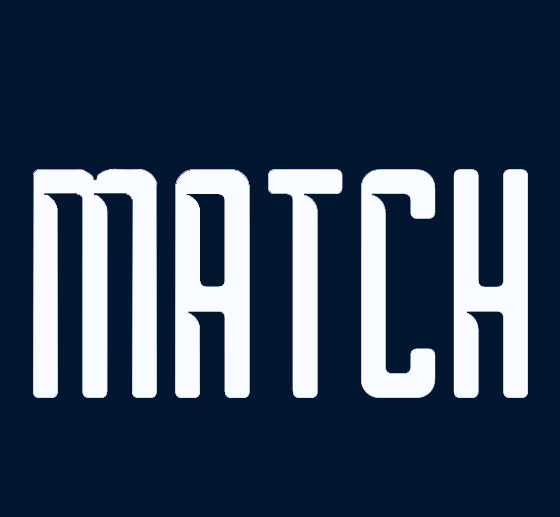
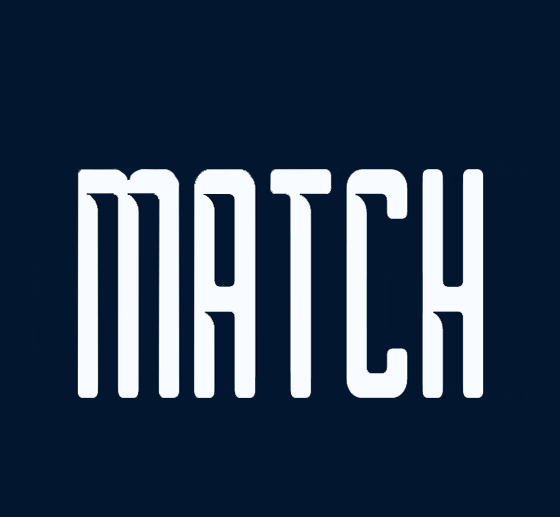
image reproporting

Changed region(s): [[0.0607, 0.3095, 0.4857, 0.7737], [0.5768, 0.3095, 0.9411, 0.7737], [0.5161, 0.3714, 0.5768, 0.7737]]

diff --git a/videograph-master/css/style.css b/videograph-master/css/style.css
@@ -901,14 +901,10 @@ label {
 
 #gsbWeb {
   background-position: center;
-  background-size: 65% 65%;
   background-color: #02172f;
+  background-size: contain;
 }
 
-#gsbWeb:hover,
-#matchApp:hover {
-  background-size: 55% 80%;
-}
 
 
 #gsbApp {
@@ -927,7 +923,7 @@ label {
 }
 
 #matchApp {
-  background-size: 70% 70%;
+  background-size: contain;
   background-color: #02172f;
   background-position: 50% 40%;
 }
@@ -2957,15 +2953,10 @@ ul {
     height: calc(1vw * 6.9);
   }
 
-  #gsbWeb,
-  #matchApp,
   #audi,
-  #gsbWeb:hover,
-  #matchApp:hover,
   #audi:hover {
     background-size: contain;
   }
-
 
 }
 
@@ -3091,13 +3082,13 @@ ul {
     background-size: contain !important;
   }
 
-  #gsbWeb {
+  /* #gsbWeb {
     background-size: 75% 65%;
-  }
+  } 
 
   #gsbWeb:hover {
     background-size: 55% 70%;
-  }
+  }*/
 
 }
 
@@ -3274,9 +3265,10 @@ ul {
   }
 
 
-  #gsbWeb {
-    background-size: 75% 55%;
-  }
+  /* #gsbWeb {
+    background-size: contain;
+  } */
+
 
   #skills {
     margin-top: -165px;
@@ -3422,17 +3414,17 @@ ul {
   }
 
 
-  #gsbWeb {
+  /* #gsbWeb {
     background-size: 75% 45%;
-  }
+  } */
 
   #gsbApp {
     background-size: 100% 80%;
   }
 
-  #matchApp {
+  /* #matchApp {
     background-size: 80% 50%;
-  }
+  } */
 
 
   #implid {
@@ -3834,9 +3826,9 @@ ul {
     scale: 0.9;
   }
 
-  #gsbWeb {
+  /* #gsbWeb {
     background-size: 75% 55%;
-  }
+  } */
 
   #gsbApp {
     background-size: 90% 80%;
@@ -3860,13 +3852,13 @@ ul {
 
 }
 
-@media only screen and (min-width: 575.5px) and (max-width: 680px) {
+/* @media only screen and (min-width: 575.5px) and (max-width: 680px) {
 
 
   #matchApp {
     background-size: 75% 55%;
   }
-}
+} */
 
 /* Wide Mobile = 480px */
 @media only screen and (min-width: 480px) and (max-width: 575.5px) {
@@ -4042,13 +4034,13 @@ ul {
     background-position: center;
   }
 
-  #gsbWeb {
+  /* #gsbWeb {
     background-size: 80% 45%;
-  }
+  } */
 
-  #matchApp {
+  /* #matchApp {
     background-size: 80% 50%;
-  }
+  } */
 
   #skills {
     margin-top: 40px;
@@ -4069,14 +4061,13 @@ ul {
     background-size: 80% 80%;
   }
 
-
-  #gsbWeb {
+  /* #gsbWeb {
     background-size: 65% 50%;
-  }
+  } */
 
-  #matchApp {
+  /* #matchApp {
     background-size: 70% 70%;
-  }
+  } */
 
   #portfolio {
     background-size: 90% 80%;
